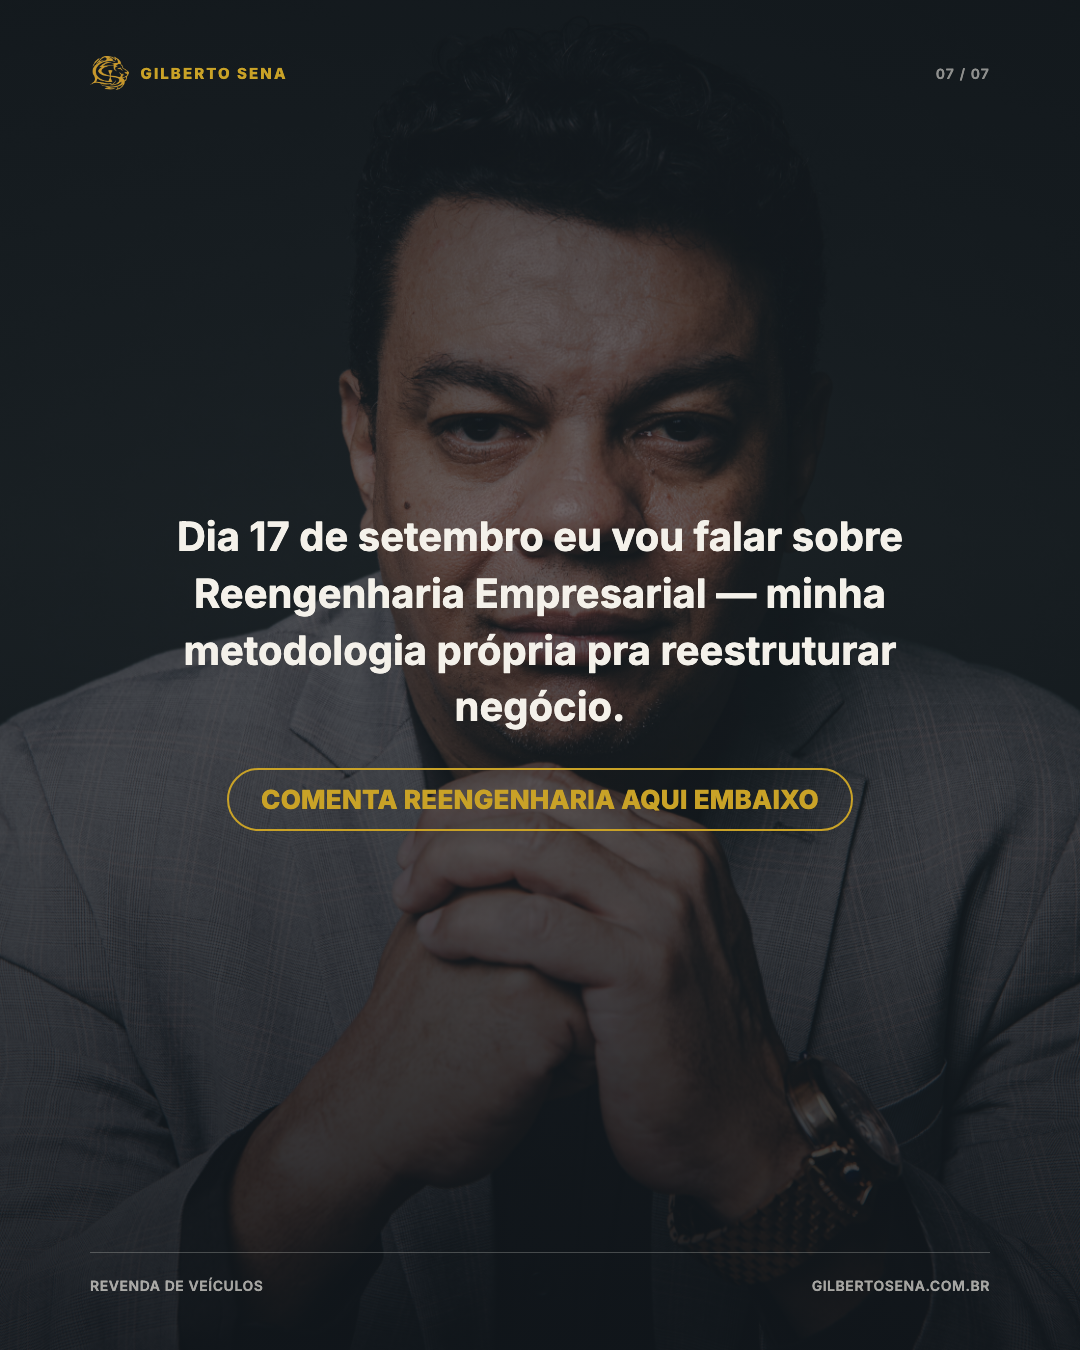
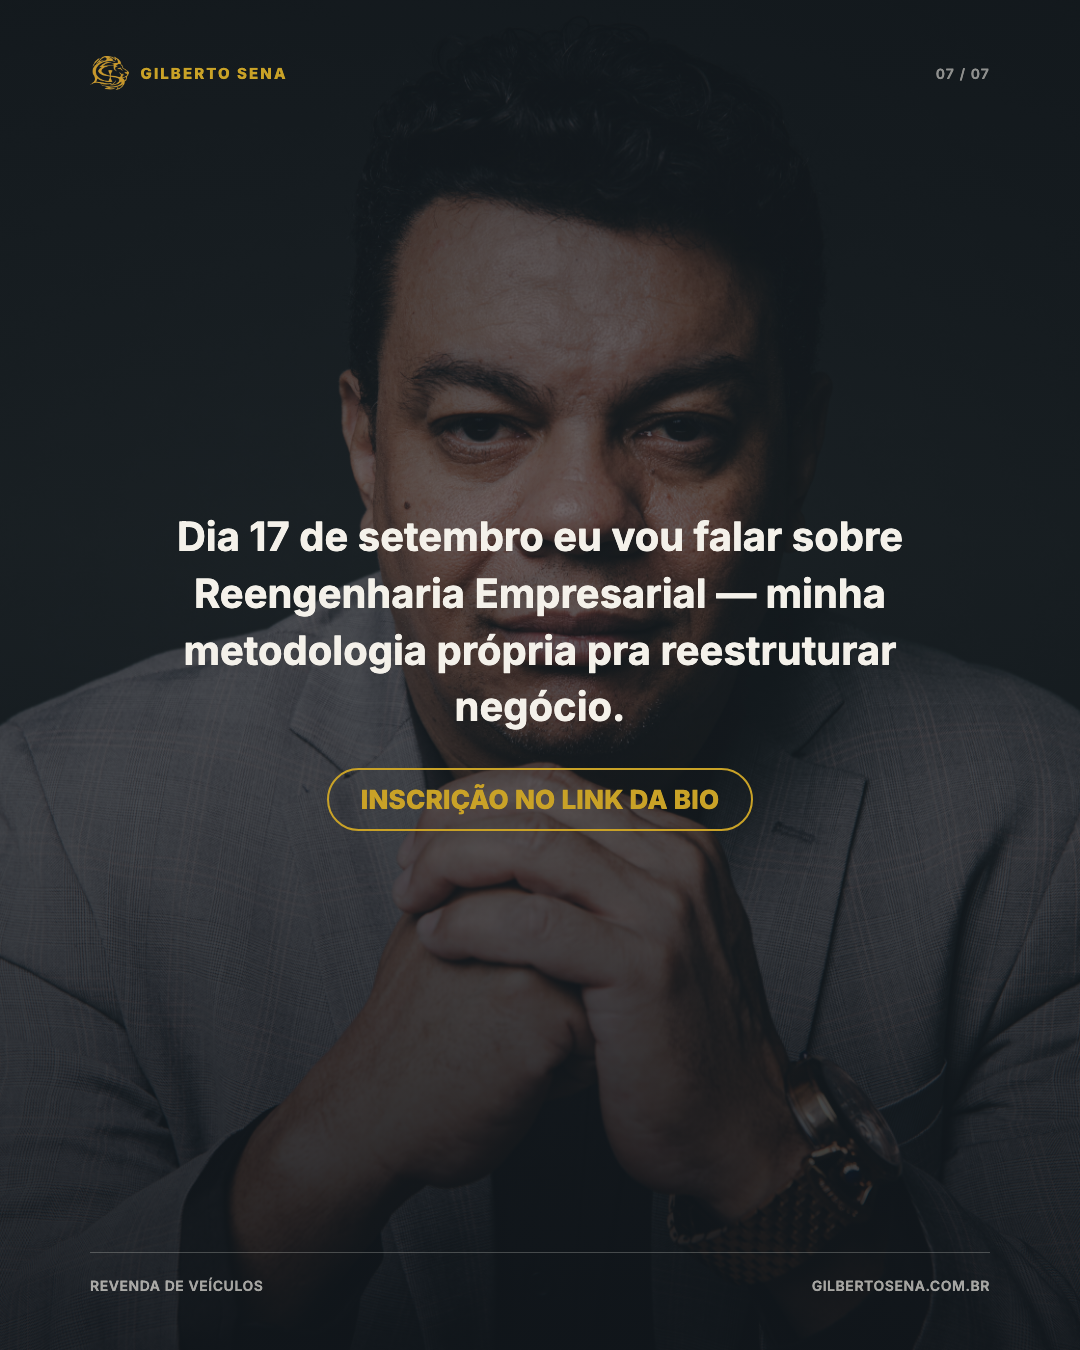
Troca CTA do slide 7 para link na bio (Instagram nao aceita link clicavel no carrossel)

Changed region(s): [[0.2444, 0.56, 0.7639, 0.6222]]

diff --git a/saidas/carrossel-revenda-carros-stj-2026-08-27/carrossel.html b/saidas/carrossel-revenda-carros-stj-2026-08-27/carrossel.html
@@ -307,7 +307,7 @@
     <span class="counter">07 / 07</span>
   </div>
   <div class="cta-line">Dia 17 de setembro eu vou falar sobre Reengenharia Empresarial — minha metodologia própria pra reestruturar negócio.</div>
-  <div class="cta-tag">Comenta REENGENHARIA aqui embaixo</div>
+  <div class="cta-tag">Inscrição no link da bio</div>
   <div class="footer">
     <span>REVENDA DE VEÍCULOS</span>
     <span>GILBERTOSENA.COM.BR</span>

diff --git a/saidas/carrossel-revenda-carros-stj-2026-08-27/legenda.md b/saidas/carrossel-revenda-carros-stj-2026-08-27/legenda.md
@@ -8,7 +8,7 @@ Na prática, isso é até 54% a menos de imposto federal. Quem pagava R$ 500 mil
 
 Dia 17 de setembro eu vou falar sobre Reengenharia Empresarial — minha metodologia própria pra reestruturar negócio.
 
-Comenta REENGENHARIA aqui embaixo pra eu te chamar.
+Inscrição no link da bio.
 
 Gilberto Sena — Grupo Sena Soluções Empresariais.
 
